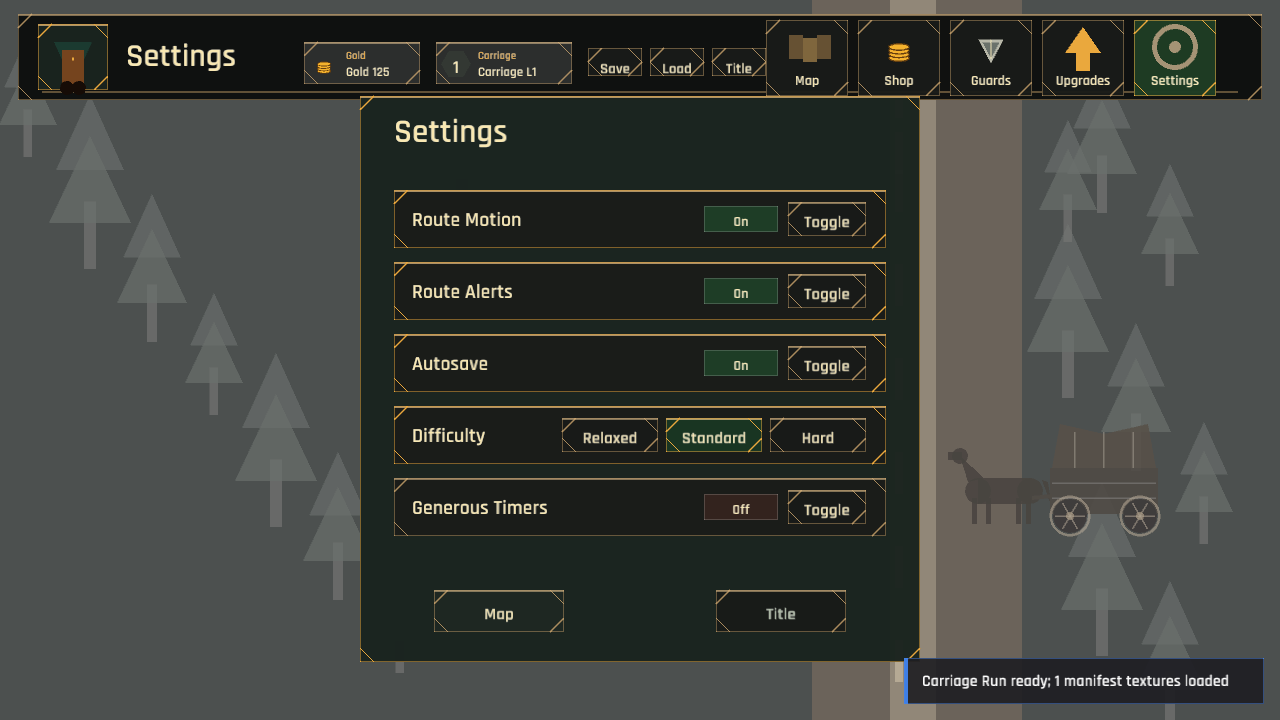
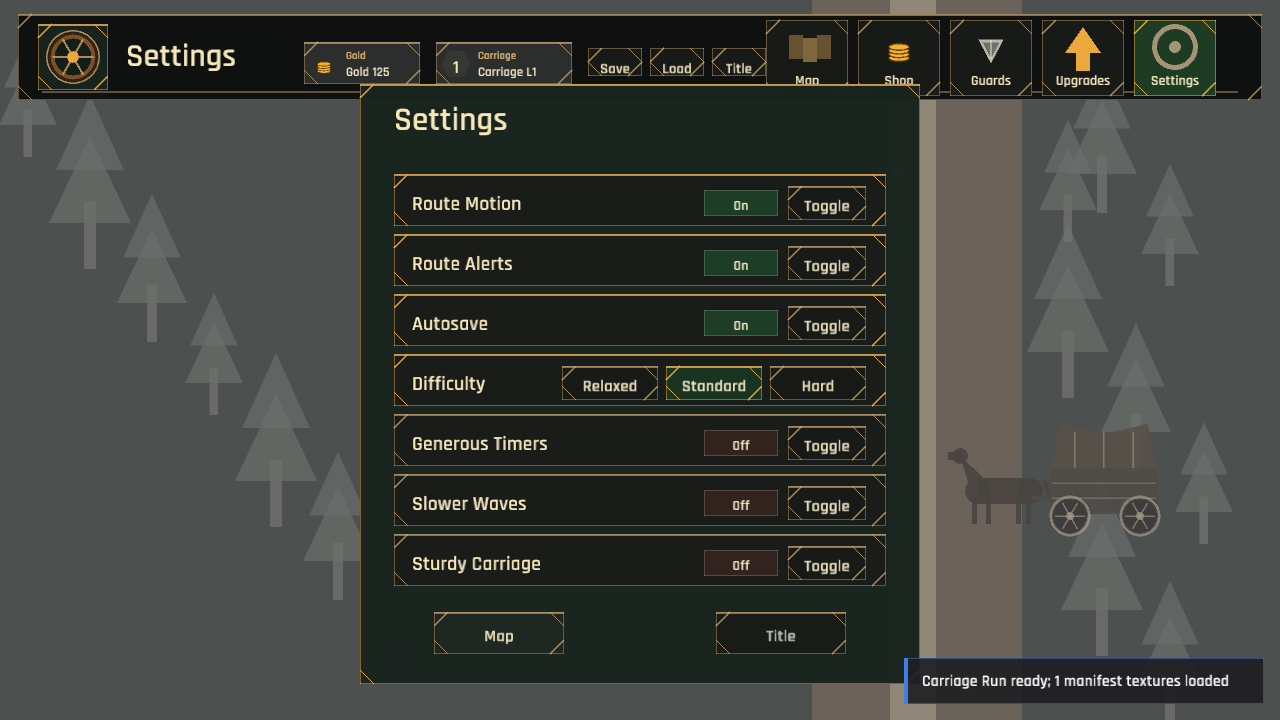
Add Slower Waves and Sturdy Carriage assists (completes A6)
Add two accessibility assist toggles alongside Generous Timers:
Slower Waves (1.5x longer lulls between enemy waves via a new
MissionRun wave_pace) and Sturdy Carriage (+25% carriage max health).
Both are persisted campaign flags toggled in Settings, orthogonal to
the difficulty preset. Completes workstream A6.

Changed region(s): [[0.2812, 0.2444, 0.7188, 0.9472], [0.2812, 0.0917, 0.7188, 0.2139], [0.0312, 0.0306, 0.0938, 0.1222]]

diff --git a/src/ui/management.rs b/src/ui/management.rs
@@ -150,7 +150,7 @@ pub(super) fn draw_settings(ctx: &UiContext<'_>, mouse: Vec2, actions: &mut Vec<
             ctx,
             mouse,
             actions,
-            Rect::new(390.0, 74.0, 500.0, 566.0),
+            Rect::new(390.0, 66.0, 500.0, 600.0),
             true,
         );
     } else {
@@ -160,7 +160,7 @@ pub(super) fn draw_settings(ctx: &UiContext<'_>, mouse: Vec2, actions: &mut Vec<
             ctx,
             mouse,
             actions,
-            Rect::new(360.0, 96.0, 560.0, 566.0),
+            Rect::new(360.0, 84.0, 560.0, 600.0),
             false,
         );
     }
@@ -624,46 +624,60 @@ fn draw_settings_panel(
         TextStyle::new(33.0, INK).params(),
     );
 
-    let mut y = panel.y + 94.0;
+    let mut y = panel.y + 90.0;
+    let row = |y: f32| Rect::new(panel.x + 34.0, y, panel.w - 68.0, 52.0);
     draw_setting_row(
         "route_motion",
         "Route Motion",
         ctx.session.campaign.route_motion_enabled,
-        Rect::new(panel.x + 34.0, y, panel.w - 68.0, 58.0),
+        row(y),
         mouse,
         actions,
     );
-    y += 72.0;
+    y += 60.0;
     draw_setting_row(
         "alerts",
         "Route Alerts",
         ctx.session.campaign.alerts_enabled,
-        Rect::new(panel.x + 34.0, y, panel.w - 68.0, 58.0),
+        row(y),
         mouse,
         actions,
     );
-    y += 72.0;
+    y += 60.0;
     draw_setting_row(
         "auto_save",
         "Autosave",
         ctx.session.campaign.auto_save_enabled,
-        Rect::new(panel.x + 34.0, y, panel.w - 68.0, 58.0),
+        row(y),
         mouse,
         actions,
     );
-    y += 72.0;
-    draw_difficulty_row(
-        ctx,
-        Rect::new(panel.x + 34.0, y, panel.w - 68.0, 58.0),
-        mouse,
-        actions,
-    );
-    y += 72.0;
+    y += 60.0;
+    draw_difficulty_row(ctx, row(y), mouse, actions);
+    y += 60.0;
     draw_setting_row(
         "generous_timers",
         "Generous Timers",
         ctx.session.campaign.generous_timers,
-        Rect::new(panel.x + 34.0, y, panel.w - 68.0, 58.0),
+        row(y),
+        mouse,
+        actions,
+    );
+    y += 60.0;
+    draw_setting_row(
+        "slower_waves",
+        "Slower Waves",
+        ctx.session.campaign.slower_waves,
+        row(y),
+        mouse,
+        actions,
+    );
+    y += 60.0;
+    draw_setting_row(
+        "sturdy_carriage",
+        "Sturdy Carriage",
+        ctx.session.campaign.sturdy_carriage,
+        row(y),
         mouse,
         actions,
     );

diff --git a/src/state/tests.rs b/src/state/tests.rs
@@ -153,6 +153,37 @@ fn buying_and_spending_a_reinforced_kit() {
 }
 
 #[test]
+fn assist_toggles_soften_the_run() {
+    let data = crate::data::GameData::load().unwrap();
+    let mission = data.missions.get("muddy_road").unwrap();
+    let config = test_config();
+    let mut campaign = CampaignState::new(&config, Some("muddy_road"));
+
+    // Sturdy Carriage grants bonus max health.
+    let base_health = MissionRun::new(mission, &campaign).carriage.max_health;
+    campaign.sturdy_carriage = true;
+    let sturdy_health = MissionRun::new(mission, &campaign).carriage.max_health;
+    assert!(
+        sturdy_health > base_health,
+        "sturdy carriage not applied: {sturdy_health} !> {base_health}"
+    );
+
+    // Slower Waves lengthens the opening lull before the first wave.
+    campaign.sturdy_carriage = false;
+    let base_lull = MissionRun::new(mission, &campaign).wave_pace;
+    campaign.slower_waves = true;
+    let slow = MissionRun::new(mission, &campaign);
+    assert!(slow.wave_pace > base_lull, "slower waves not applied");
+
+    // Both are plain settings toggles.
+    let mut session = GameSession::new(&config, Some("muddy_road"));
+    assert!(session.toggle_setting("slower_waves"));
+    assert!(session.campaign.slower_waves);
+    assert!(session.toggle_setting("sturdy_carriage"));
+    assert!(session.campaign.sturdy_carriage);
+}
+
+#[test]
 fn generous_timers_extends_timed_missions() {
     let data = crate::data::GameData::load().unwrap();
     let mission = data.missions.get("courier_deadline").unwrap();

diff --git a/src/state/mission.rs b/src/state/mission.rs
@@ -189,12 +189,19 @@ pub struct MissionRun {
     /// Radius within which the Warding Lantern slows enemies. Zero when not
     /// equipped.
     pub(super) ward_radius: f32,
+    /// Multiplier on the lulls between enemy waves (>1 = gentler pacing). Driven
+    /// by the Slower Waves accessibility assist.
+    pub(super) wave_pace: f32,
 }
 
 impl MissionRun {
     pub fn new(mission: &MissionDef, campaign: &CampaignState) -> Self {
-        let max_health =
-            (100.0 + campaign.carriage_level as f32 * 26.0) * campaign.chassis_health_mult;
+        // Accessibility assists: sturdier carriage (+health) and gentler pacing.
+        let assist_health = if campaign.sturdy_carriage { 1.25 } else { 1.0 };
+        let wave_pace = if campaign.slower_waves { 1.5 } else { 1.0 };
+        let max_health = (100.0 + campaign.carriage_level as f32 * 26.0)
+            * campaign.chassis_health_mult
+            * assist_health;
         let cargo_max = 100.0 + campaign.cargo_level as f32 * 6.0;
         let route_choice = campaign.selected_route_choice(mission);
         let route_choice_id = route_choice
@@ -328,7 +335,7 @@ impl MissionRun {
             throttle: 1.0,
             drive: DriveKeys::default(),
             chassis_speed_mult: campaign.chassis_speed_mult,
-            wave: WavePhase::Lull(2.2),
+            wave: WavePhase::Lull(2.2 * wave_pace),
             wave_index: 0,
             next_enemy_id: 10,
             hazard_timer: 1.6,
@@ -364,6 +371,7 @@ impl MissionRun {
             } else {
                 0.0
             },
+            wave_pace,
         }
     }
 

diff --git a/src/state.rs b/src/state.rs
@@ -285,6 +285,13 @@ pub struct CampaignState {
     /// start of each campaign route.
     #[serde(default)]
     pub reinforced_kits: u32,
+    /// Accessibility assist: gentler wave pacing (longer lulls between attacks).
+    /// Orthogonal to the difficulty preset.
+    #[serde(default)]
+    pub slower_waves: bool,
+    /// Accessibility assist: the carriage sets out with bonus max health.
+    #[serde(default)]
+    pub sturdy_carriage: bool,
     /// Persistent expedition currency (meta-progression). Earned per leg cleared
     /// across all expeditions; spent at the Outfitter on permanent unlocks.
     #[serde(default)]
@@ -336,6 +343,8 @@ impl CampaignState {
             difficulty_preset: DifficultyPreset::Standard,
             generous_timers: false,
             reinforced_kits: 0,
+            slower_waves: false,
+            sturdy_carriage: false,
             expedition_tokens: 0,
             expedition_unlocks: Vec::new(),
             expedition_records: ExpeditionRecords::default(),
@@ -888,6 +897,8 @@ impl GameSession {
             "alerts" => self.campaign.alerts_enabled = !self.campaign.alerts_enabled,
             "auto_save" => self.campaign.auto_save_enabled = !self.campaign.auto_save_enabled,
             "generous_timers" => self.campaign.generous_timers = !self.campaign.generous_timers,
+            "slower_waves" => self.campaign.slower_waves = !self.campaign.slower_waves,
+            "sturdy_carriage" => self.campaign.sturdy_carriage = !self.campaign.sturdy_carriage,
             _ => return false,
         }
         true

diff --git a/src/state/mission/flow.rs b/src/state/mission/flow.rs
@@ -256,8 +256,9 @@ impl MissionRun {
                     next = self.rng_range(0.45, 0.8);
                 }
                 if remaining == 0 {
-                    let lull =
-                        (self.rng_range(3.4, 5.2) * grace / self.difficulty.max(0.8)).max(1.6);
+                    let lull = (self.rng_range(3.4, 5.2) * grace * self.wave_pace
+                        / self.difficulty.max(0.8))
+                    .max(1.6);
                     WavePhase::Lull(lull)
                 } else {
                     WavePhase::Active {

diff --git a/src/game.rs b/src/game.rs
@@ -825,6 +825,8 @@ fn setting_label(id: &str) -> &'static str {
         "alerts" => "Route alerts",
         "auto_save" => "Autosave",
         "generous_timers" => "Generous timers",
+        "slower_waves" => "Slower waves",
+        "sturdy_carriage" => "Sturdy carriage",
         _ => "Setting",
     }
 }
@@ -835,6 +837,8 @@ fn setting_value(session: &GameSession, id: &str) -> &'static str {
         "alerts" => session.campaign.alerts_enabled,
         "auto_save" => session.campaign.auto_save_enabled,
         "generous_timers" => session.campaign.generous_timers,
+        "slower_waves" => session.campaign.slower_waves,
+        "sturdy_carriage" => session.campaign.sturdy_carriage,
         _ => false,
     };
     if enabled {

diff --git a/COMMERCIAL_READINESS_ROADMAP.md b/COMMERCIAL_READINESS_ROADMAP.md
@@ -58,7 +58,7 @@ Shipped and committed to `master` this cycle (checkboxes below updated to match)
 - **A5 Elite enemies** — Alpha Wolf (fast charging pack leader) and Armored Bandit (tanky non-fleeing raider, countered by crossbow armor-pierce), added to Refugee Escort / Gold Shipment and the Field Guide. *(elite variants done — 2 of 2–3; bosses remain)*
 - **A2 Endgame economy** — Reinforced Kit consumable (+55 health for one route), a repeatable gold sink bought in the shop. *(done)*
 - **A6 Difficulty presets** — Relaxed / Standard / Hard scaling the mission difficulty scalar. *(done)*
-- **A6 Assist toggles** — "Generous Timers" (+15s on timed missions), orthogonal to the presets. *(partial — one assist so far; slower-waves / extra-gold remain)*
+- **A6 Assist toggles — completed** — added **Slower Waves** (1.5× longer lulls between attacks via `MissionRun::wave_pace`) and **Sturdy Carriage** (+25% carriage max health) alongside the existing Generous Timers. All three are persisted Settings toggles orthogonal to the difficulty preset; A6 is now fully shipped. *(done)*
 - **C1 Narrative** — courier-log intro (loadout brief) and outro (results screen) for all 12 missions. *(done)*
 - **F3 Confirmation dialogs** — New Campaign confirms before overwriting the save. *(partial — chassis/expedition confirms remain)*
 - **F4 Post-mission clarity** — structured bonus objectives graded met/missed on a relaid-out results screen. *(partial — "what to buy next" nudge remains)*
@@ -114,10 +114,9 @@ Roster is 5 kinds, no elites, no bosses (`entities.rs:432-439`). Add:
 - [ ] 2–3 **bosses** for campaign finale + expedition finale (multi-phase, telegraph-heavy — the wave state machine in `flow.rs` extends naturally).
 - [ ] 3–4 additional standard enemies to support biome variety (A6/B1).
 
-### A6. 🟡 Difficulty options & assists
-No difficulty setting exists. For a commercial audience:
+### A6. ✅ Difficulty options & assists — **COMPLETE**
 - [x] 3 difficulty presets (spawn-rate/damage multipliers over the existing `difficulty` scalar in `entities.rs:519-527`).
-- [ ] Assist toggles (slower waves, extra starting gold) — cheap, widens the audience, and doubles as an accessibility feature.
+- [x] Assist toggles — three now ship, all orthogonal to the difficulty preset: **Generous Timers** (+15s on timed missions), **Slower Waves** (1.5× longer lulls between attacks, via `MissionRun::wave_pace`), and **Sturdy Carriage** (+25% carriage max health). All persisted campaign flags toggled in Settings. *(done — widens the audience and doubles as accessibility)*
 
 ---
 